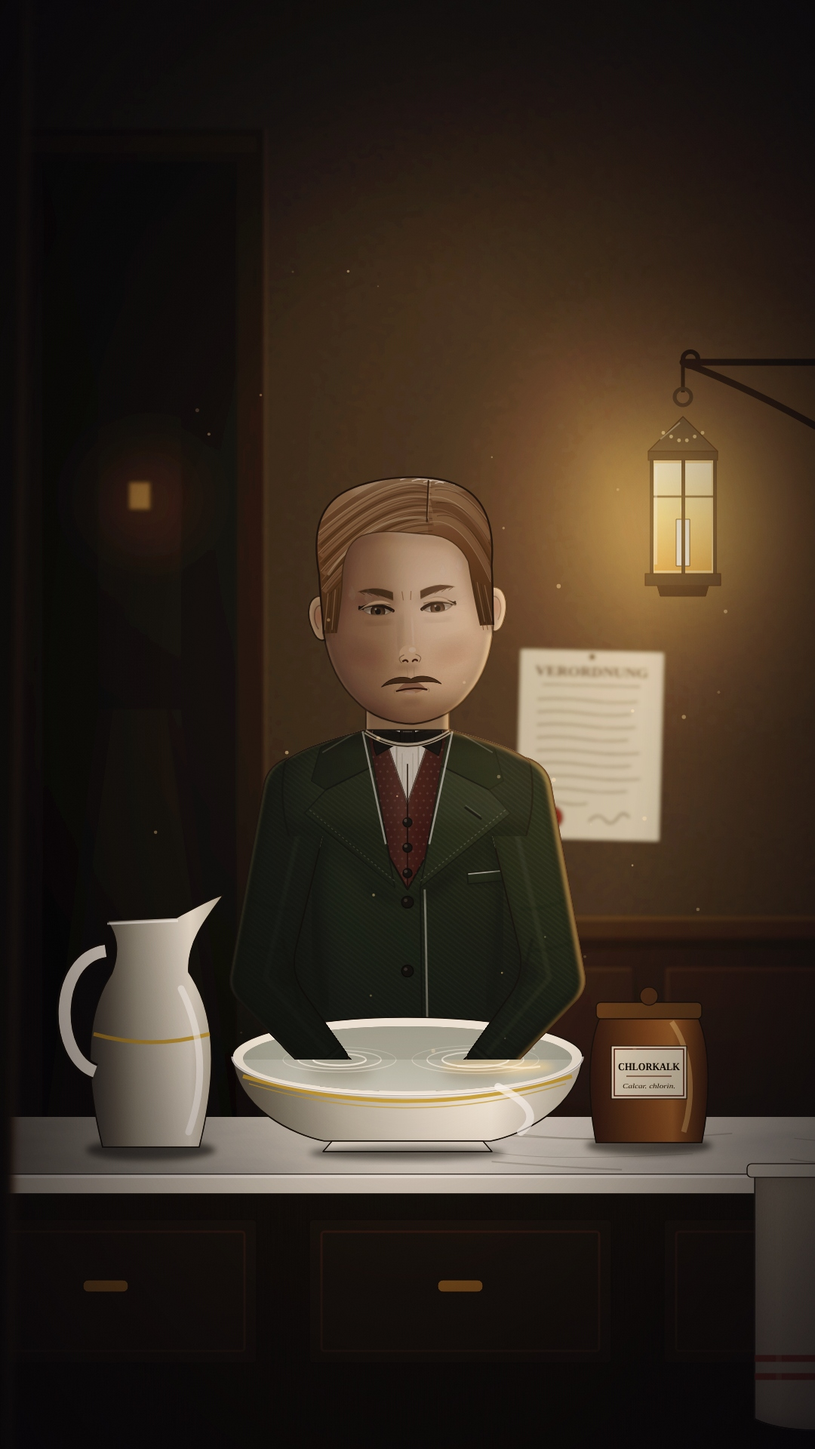
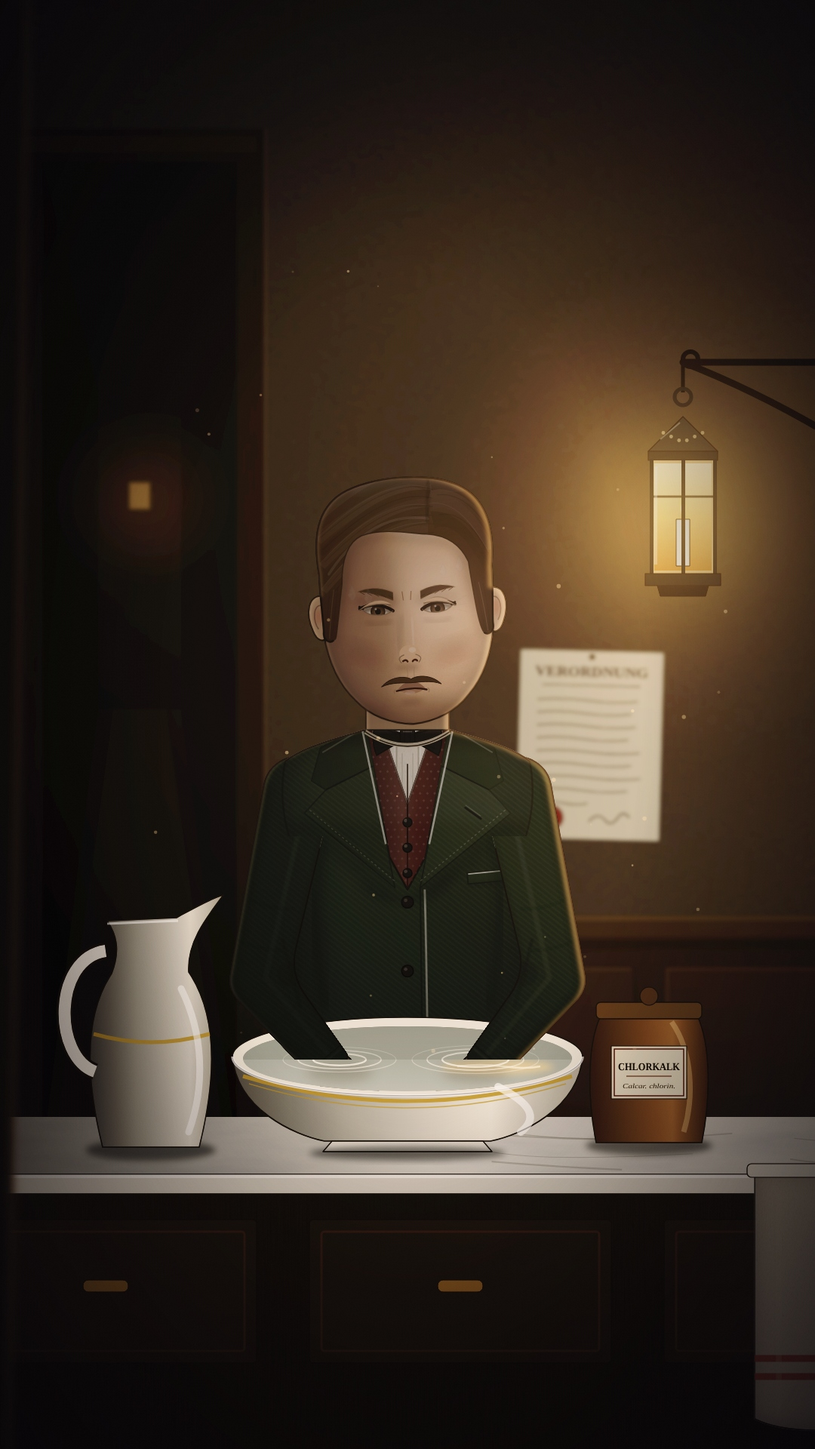
Hair: lit with the head, no cut ends, one tone per head
The user: the hair "still look very off and cutted at some points ... not matching".
- castT1.js Q.litHair: back hair + body + front hair (+ a held prop and fist) through ONE light pass, so the hair takes
  the same key, rim and face light as the face (drawn outside the pass it read as a cut-out laid on top).
- hairkit.js: one gradient per head shared by every piece; fewer, wider locks with faint lines; the parting a soft
  groove; the woman's hair covers the ears whole and rounds back behind them; sideburns taper to a rounded end; the
  bald fringe thins out at both ends and also lies over the side of the head above the ear.
- test_frames: the stills, the cast sheet and a 2.5x hair before/after.

Claude-Session: https://claude.ai/code/session_017ekfBmByRicNC7Kuj1gPSk

Changed region(s): [[0.3667, 0.3125, 0.6111, 0.4375]]

diff --git a/dark-history/_render/lib/hairkit.js b/dark-history/_render/lib/hairkit.js
@@ -1,22 +1,20 @@
 // Hair kit for rig3 heads (the detailing pass of 2026-11-08: "their clothes and hairs look uneven ... not detailed and
-// clean"). Hair is built the way painted hair is, in layers - never one flat blob with a few scratched lines:
-//   - the mass, shaded top to bottom (lighter on the crown, darker at the roots and underneath), inked on its outer
-//     edge only;
-//   - locks: tapered filled ribbons that follow the flow from the parting, evenly spaced, in alternating tones, each
-//     with a fine dark parting line and a lit edge;
-//   - a sheen band across the crown, stronger on the key-light side, with a few crisp highlights in it;
-//   - a soft hairline: a thin line a shade darker than the hair where it meets the skin (no heavy ink), short strands
-//     breaking it, a faint shadow on the brow under it;
-//   - a few fly-away hairs past the silhouette.
+// clean", then "hairs still look very off and cutted at some points ... not matching"). Hair is built the way painted
+// hair is, in layers - never one flat blob with a few scratched lines:
+//   - the mass, shaded by ONE gradient per head (lighter on the crown, darker toward the nape) shared by every piece -
+//     front, back and plait - so their tones meet without a seam;
+//   - wide tapered locks that follow the flow from the parting, in alternating tones, with only faint lines between;
+//   - a sheen band across the crown, stronger on the key-light side;
+//   - a soft hairline: a thin line a shade darker than the hair where it meets the skin, no ink, a faint brow shadow.
+// No hair ends in a straight cut: a woman's hair rounds over the ear and goes back behind it, sideburns taper to a
+// rounded end, a bald man's fringe thins out at both ends, a parting is a soft groove.
 // Drawn on the base head (rig3 FACE[kind]) and carried onto the character's morphed head with the rig's own face map
-// (faceP), like its beards. Use with the rig's hairStyle 'bald'. Each style returns { back, front } for the cast's
-// headArt / withArt (back: behind the body and head; front: over the face).
-//   HK.centrePart({ kind: 'woman', fx, col, id, light: 1, braid: 1 | -1 | 0, ribbon })  (1840s women: sleek, the
-//     ears covered, the hair gathered behind into a night plait over one shoulder)
-//   HK.sidePart({ kind: 'man', fx, col, id, light: 1, part: 28 })                       (1840s men: a side parting,
-//     the hair swept across the crown in a wave, trimmed sideburns)
-//   HK.baldFringe({ kind: 'man', fx, col, id, light: 1 })                               (an old man: a bald crown,
-//     soft white hair round the sides and back, wisps over the temples, short side-whiskers)
+// (faceP), like its beards. Use with the rig's hairStyle 'bald'. Each style returns { back, front }: draw them INSIDE
+// the figure's light pass (back + P.svg + front through one C.lit, e.g. the cast's litHair), so the hair takes the same
+// key, rim and face light as the head (drawn outside it, it reads as a cut-out laid on top).
+//   HK.centrePart({ kind: 'woman', fx, col, id, light: 1, braid: 1 | -1 | 0, ribbon })
+//   HK.sidePart({ kind: 'man', fx, col, id, light: 1, part: 28 })
+//   HK.baldFringe({ kind: 'man', fx, col, id, light: 1 })
 (function (G) {
   const { shade, faceP } = G.RIG;
   const HK = {};
@@ -35,129 +33,128 @@
     return path(m, [['M', off(p0, n0, w0)], ['Q', off(c, nc, wc), off(p1, n1, w1)], ['L', off(p1, n1, -w1)], ['Q', off(c, nc, -wc), off(p0, n0, -w0)]]) + 'Z';
   };
   const curve = (m, p0, c, p1, dn = 0) => { const n = nr(p0, p1); return path(m, [['M', off(p0, n, dn)], ['Q', off(c, n, dn), off(p1, n, dn)]]); };
-  const grad = (id, col, y0, y1) => `<linearGradient id="${id}" gradientUnits="userSpaceOnUse" x1="0" y1="${f(y0)}" x2="0" y2="${f(y1)}"><stop offset="0" stop-color="${shade(col, 0.22)}"/><stop offset="0.5" stop-color="${col}"/><stop offset="1" stop-color="${shade(col, -0.32)}"/></linearGradient>`;
-  // locks over a mass: fills in alternating tones, then the fine dark line between locks and a lit edge on each
-  const lockSet = (m, col, L, op = 0.5) => {
+  // one gradient per head, top of the crown to the nape (userSpaceOnUse, head-local after mapping)
+  const grad = (id, col, y0, y1) => `<linearGradient id="${id}" gradientUnits="userSpaceOnUse" x1="0" y1="${f(y0)}" x2="0" y2="${f(y1)}"><stop offset="0" stop-color="${shade(col, 0.2)}"/><stop offset="0.38" stop-color="${col}"/><stop offset="1" stop-color="${shade(col, -0.3)}"/></linearGradient>`;
+  // locks over a mass: wide fills in alternating tones; only faint lines between them
+  const lockSet = (m, col, L, op = 0.42) => {
     let g = '';
-    L.forEach(([p0, c, p1, w0, w1], i) => { g += `<path d="${lock(m, p0, c, p1, w0, w1)}" fill="${shade(col, i % 2 ? 0.16 : -0.2)}" opacity="${op}"/>`; });
-    L.forEach(([p0, c, p1, w0], i) => { g += `<path d="${curve(m, p0, c, p1, -w0 * 0.9)}" stroke="${shade(col, -0.5)}" stroke-width="1.1" fill="none" opacity="0.38" stroke-linecap="round"/><path d="${curve(m, p0, c, p1, w0 * 0.5)}" stroke="${shade(col, 0.45)}" stroke-width="1" fill="none" opacity="${i % 2 ? 0.4 : 0.22}" stroke-linecap="round"/>`; });
+    L.forEach(([p0, c, p1, w0, w1], i) => { g += `<path d="${lock(m, p0, c, p1, w0, w1)}" fill="${shade(col, i % 2 ? 0.14 : -0.16)}" opacity="${op}"/>`; });
+    L.forEach(([p0, c, p1, w0], i) => { g += `<path d="${curve(m, p0, c, p1, -w0 * 0.9)}" stroke="${shade(col, -0.45)}" stroke-width="1" fill="none" opacity="0.22" stroke-linecap="round"/>`; if (i % 2) g += `<path d="${curve(m, p0, c, p1, w0 * 0.4)}" stroke="${shade(col, 0.45)}" stroke-width="1" fill="none" opacity="0.2" stroke-linecap="round"/>`; });
     return g;
   };
-  // short strands across a hairline (pts: base points on it; d: the way the hair runs there)
-  const hairlineStrands = (m, col, pts) => pts.map(([p, d]) => `<path d="${path(m, [['M', [p[0] - d[0] * 4, p[1] - d[1] * 4]], ['L', [p[0] + d[0] * 6, p[1] + d[1] * 6]]])}" stroke="${shade(col, -0.05)}" stroke-width="1" opacity="0.6" stroke-linecap="round"/>`).join('');
 
-  // ======================================================= women: a centre parting, smooth over the ears, a night plait
+  // ======================================================= women: a centre parting, over the ears and back, a night plait
   HK.centrePart = (o = {}) => {
     const m = mapper(o.kind || 'woman', o.fx), col = o.col || '#4a2814', id = o.id || 'hkc', lt = o.light || 1, fx = o.fx || {};
-    const outer = [['M', [-80, 14]], ['C', [-94, -36], [-96, -108], [-62, -132]], ['C', [-34, -152], [34, -152], [62, -132]], ['C', [96, -108], [94, -36], [80, 14]]];
-    const inner = [['L', [70, 12]], ['C', [68, -26], [62, -56], [50, -74]], ['C', [34, -94], [12, -100], [0, -96]], ['C', [-12, -100], [-34, -94], [-50, -74]], ['C', [-62, -56], [-68, -26], [-70, 12]]];
-    const cap = path(m, outer) + ' ' + path(m, inner) + 'Z';
-    const hl = path(m, [['M', [70, 12]], ['C', [68, -26], [62, -56], [50, -74]], ['C', [34, -94], [12, -100], [0, -96]], ['C', [-12, -100], [-34, -94], [-50, -74]], ['C', [-62, -56], [-68, -26], [-70, 12]]]);
-    const y0 = m([0, -152])[1], y1 = m([0, 14])[1];
-    let front = `<defs>${grad(id + 'g', col, y0, y1)}<clipPath id="${id}c"><path d="${cap}"/></clipPath></defs>`;
-    // a faint shadow on the brow under the hairline
-    front += `<path d="${hl}" stroke="#3a1c0c" stroke-width="10" fill="none" opacity="0.14" filter="url(#b4)" transform="translate(0,5)"/>`;
+    const G0 = m([0, -152])[1], G1 = m([0, 150])[1];
+    // the cap: smooth over the crown, down over each ear (covered whole, as the 1840s wore it: a lobe peeping out under
+    // the hair read as a stray sliver), where it rounds under and turns back behind it
+    const side = s => [['C', [s * 98, -108], [s * 97, -40], [s * 87, 14]], ['C', [s * 85, 30], [s * 79, 39], [s * 70, 37]]];
+    const outerD = [['M', [-70, 37]], ['C', [-79, 39], [-85, 30], [-87, 14]], ['C', [-97, -40], [-98, -108], [-62, -132]], ['C', [-34, -152], [34, -152], [62, -132]], ...side(1)];
+    const hlD = [['M', [70, 37]], ['C', [70, 14], [69, -14], [67, -28]], ['C', [64, -52], [58, -64], [50, -74]], ['C', [34, -94], [12, -100], [0, -96]], ['C', [-12, -100], [-34, -94], [-50, -74]], ['C', [-58, -64], [-64, -52], [-67, -28]], ['C', [-69, -14], [-70, 14], [-70, 37]]];
+    const cap = path(m, outerD) + ' L' + path(m, hlD).slice(1) + 'Z';
+    let front = `<defs>${grad(id + 'g', col, G0, G1)}<clipPath id="${id}c"><path d="${cap}"/></clipPath></defs>`;
+    front += `<path d="${path(m, hlD)}" stroke="#3a1c0c" stroke-width="10" fill="none" opacity="0.14" filter="url(#b4)" transform="translate(0,5)"/>`;
     front += `<path d="${cap}" fill="url(#${id}g)"/>`;
-    // the locks: from the parting outward and down - the upper ones over the crown to the back, the lower ones along
-    // the hairline down over the tops of the ears
+    // five wide locks a side from the parting: the upper over the crown to the back, the lower along the hairline and
+    // round over the ear
     let lk = '';
     for (const s of [-1, 1]) {
       const L = [];
-      for (let i = 0; i < 7; i++) { const t = i / 6; L.push([[s * 2, -148 + 50 * t], [s * (46 + 16 * t), -158 + 80 * t], [s * (92 - 14 * t), -108 + 116 * t], 17, 5]); }
+      for (let i = 0; i < 5; i++) { const t = i / 4; L.push([[s * 2, -146 + 48 * t], [s * (48 + 14 * t), -156 + 80 * t], [s * (94 - 16 * t), -104 + 124 * t], 24, 8]); }
       lk += lockSet(m, col, L);
     }
-    // the sheen across the crown either side of the parting, stronger toward the light
-    for (const s of [-1, 1]) lk += `<path d="${path(m, [['M', [s * 8, -140]], ['Q', [s * 40, -144], [s * 72, -112]]])}" stroke="${shade(col, 0.55)}" stroke-width="13" fill="none" opacity="${s === lt ? 0.3 : 0.16}" filter="url(#b4)" stroke-linecap="round"/>`;
-    for (let i = 0; i < 4; i++) { const t = i / 3; lk += `<path d="${path(m, [['M', [lt * (16 + 14 * t), -142 + 4 * t]], ['Q', [lt * (30 + 16 * t), -140 + 6 * t], [lt * (44 + 18 * t), -132 + 10 * t]]])}" stroke="${shade(col, 0.75)}" stroke-width="1.4" fill="none" opacity="0.55" stroke-linecap="round"/>`; }
+    for (const s of [-1, 1]) lk += `<path d="${path(m, [['M', [s * 8, -140]], ['Q', [s * 40, -144], [s * 72, -112]]])}" stroke="${shade(col, 0.55)}" stroke-width="13" fill="none" opacity="${s === lt ? 0.28 : 0.14}" filter="url(#b4)" stroke-linecap="round"/>`;
+    for (let i = 0; i < 3; i++) lk += `<path d="${path(m, [['M', [lt * (18 + 14 * i), -141 + 4 * i]], ['Q', [lt * (32 + 15 * i), -139 + 6 * i], [lt * (46 + 16 * i), -131 + 10 * i]]])}" stroke="${shade(col, 0.7)}" stroke-width="1.3" fill="none" opacity="0.45" stroke-linecap="round"/>`;
+    // the parting: a soft groove where the locks divide (shading, not a drawn line)
+    lk += `<path d="${path(m, [['M', [0, -98]], ['L', [0, -148]]])}" stroke="${shade(col, -0.45)}" stroke-width="4" opacity="0.35" filter="url(#b1)"/>`;
     front += `<g clip-path="url(#${id}c)">${lk}</g>`;
-    // the parting: a fine dark line with the scalp just showing in it
-    front += `<path d="${path(m, [['M', [0, -97]], ['L', [0, -150]]])}" stroke="${shade(col, -0.55)}" stroke-width="2" opacity="0.8"/><path d="${path(m, [['M', [0, -100]], ['L', [0, -146]]])}" stroke="#d8b49a" stroke-width="0.9" opacity="0.4"/>`;
-    // ink on the outer edge only; where the hair meets the skin a thin line a shade darker than the hair, no ink (stray
-    // strands and fly-aways read as scratches at this scale, so there are none)
-    front += `<path d="${path(m, outer)}" fill="none" ${OUTL}/><path d="${hl}" stroke="${shade(col, -0.35)}" stroke-width="1.3" fill="none" opacity="0.8"/>`;
-    // behind the head: the hair taken back behind the ears; on the plait's side it runs down behind the jaw to where
-    // the plait comes round the neck
-    let back = `<defs>${grad(id + 'b', col, m([0, -40])[1], m([0, 120])[1])}</defs>`;
+    front += `<path d="${path(m, outerD)}" fill="none" ${OUTL}/><path d="${path(m, hlD)}" stroke="${shade(col, -0.35)}" stroke-width="1.3" fill="none" opacity="0.8"/>`;
+    // behind the head, in the same gradient: the hair taken back from behind each ear toward the nape; on the plait's
+    // side it runs down behind the jaw to where the plait comes round the neck
+    let back = '';
     for (const s of [-1, 1]) {
       const big = s === (o.braid || 0);
-      const d = big ? [['M', [s * 62, -20]], ['C', [s * 96, -6], [s * 106, 40], [s * 96, 96]], ['C', [s * 90, 116], [s * 76, 126], [s * 58, 124]], ['L', [s * 50, 104]], ['C', [s * 70, 88], [s * 74, 40], [s * 56, -2]]]
-        : [['M', [s * 64, -14]], ['C', [s * 88, -6], [s * 94, 18], [s * 88, 40]], ['L', [s * 72, 40]], ['C', [s * 74, 22], [s * 70, 6], [s * 58, 0]]];
-      back += `<path d="${path(m, d)}Z" fill="url(#${id}b)" ${OUTL}/><path d="${path(m, [['M', [s * 70, -8]], ['C', [s * 90, 6], [s * 96, 40], [s * 88, big ? 90 : 34]]])}" stroke="${shade(col, 0.35)}" stroke-width="1.2" fill="none" opacity="0.4"/>`;
+      const d = big ? [['M', [s * 66, -24]], ['C', [s * 98, -10], [s * 106, 40], [s * 96, 96]], ['C', [s * 90, 116], [s * 76, 126], [s * 58, 124]], ['L', [s * 50, 104]], ['C', [s * 70, 88], [s * 74, 40], [s * 58, -6]]]
+        : [['M', [s * 66, -20]], ['C', [s * 94, -8], [s * 98, 24], [s * 88, 56]], ['C', [s * 84, 66], [s * 78, 70], [s * 72, 68]], ['C', [s * 76, 40], [s * 72, 12], [s * 58, -4]]];
+      back += `<path d="${path(m, d)}Z" fill="url(#${id}g)" ${OUTL}/><path d="${path(m, [['M', [s * 72, -6]], ['C', [s * 90, 8], [s * 96, 40], [s * 88, big ? 90 : 52]]])}" stroke="${shade(col, 0.35)}" stroke-width="1.2" fill="none" opacity="0.3"/>`;
     }
-    // the plait: it comes round the side of the neck, over the shoulder and down the front, thick at the top and
-    // tapering. A solid core, then three-strand lobes - pointed lenses leaning left and right in turn, overlapping
-    // closely - each lit on the light side; tied with a ribbon, a little tuft below. (Head-local, scaled with the head's
-    // width only: it lies on the body.)
+    // the plait: round the side of the neck, over the shoulder, down the front; thick at the top, tapering. A solid
+    // core, then pointed three-strand lenses leaning in turn, overlapping closely; tied with a ribbon over a little tuft.
+    // (Head-local, scaled with the head's width only - it lies on the body.) Its tones come from the same gradient
+    // (the core) plus light and dark lenses, so it matches the hair it grows from.
     if (o.braid) {
       const s = o.braid, W0 = fx.w ?? 1, B = p => [p[0] * W0, p[1]];
       const pts = [[s * 50, 112], [s * 72, 150], [s * 92, 206], [s * 102, 270], [s * 104, 330]];
       const seg = [0]; for (let i = 1; i < pts.length; i++) seg.push(seg[i - 1] + Math.hypot(pts[i][0] - pts[i - 1][0], pts[i][1] - pts[i - 1][1]));
       const at = t => { const d = t * seg[seg.length - 1]; let k = 0; while (k < seg.length - 2 && seg[k + 1] < d) k++; const u = (d - seg[k]) / (seg[k + 1] - seg[k]); return [pts[k][0] + (pts[k + 1][0] - pts[k][0]) * u, pts[k][1] + (pts[k + 1][1] - pts[k][1]) * u]; };
       const wid = t => 30 - 13 * t;
-      // the core: a tapered band along the plait in the hair's darkest tone, so no gap ever shows between lobes
       let core = '', coreB = '';
       for (let i = 0; i <= 16; i++) { const t = i / 16, p = B(at(t)), q = B(at(Math.min(1, t + 0.01))), a = Math.atan2(q[1] - p[1], q[0] - p[0]), n = [-Math.sin(a), Math.cos(a)], w = wid(t) * 0.42; core += (i ? ' L' : 'M') + Q([p[0] + n[0] * w, p[1] + n[1] * w]); coreB = ' L' + Q([p[0] - n[0] * w, p[1] - n[1] * w]) + coreB; }
-      let br = `<path d="${core}${coreB}Z" fill="${shade(col, -0.35)}" ${OUTL}/>`;
+      let br = `<path d="${core}${coreB}Z" fill="${shade(col, -0.3)}" ${OUTL}/>`;
       const N = 22;
       for (let i = 0; i < N; i++) {
         const t = i / (N - 1), p = B(at(t)), q = B(at(Math.min(1, t + 0.01))), a = Math.atan2(q[1] - p[1], q[0] - p[0]) * 180 / Math.PI, w = wid(t), hl = w * 0.5, hw = w * 0.27, lean = (i % 2 ? 1 : -1) * 38;
         const lens = `M0,${f(-hl)} Q${f(hw * 1.9)},0 0,${f(hl)} Q${f(-hw * 1.9)},0 0,${f(-hl)}Z`;
-        br += `<g transform="translate(${f(p[0])},${f(p[1])}) rotate(${f(a - 90 + lean)})"><path d="${lens}" fill="${shade(col, i % 2 ? 0.1 : -0.06)}" stroke="${shade(col, -0.55)}" stroke-width="1.1"/><path d="M${f(hw * 0.5)},${f(-hl * 0.6)} Q${f(hw * 0.95)},0 ${f(hw * 0.5)},${f(hl * 0.6)}" stroke="${shade(col, 0.55)}" stroke-width="1.3" fill="none" opacity="${(i % 2 ? 1 : -1) * lt > 0 ? 0.55 : 0.3}"/></g>`;
+        br += `<g transform="translate(${f(p[0])},${f(p[1])}) rotate(${f(a - 90 + lean)})"><path d="${lens}" fill="${shade(col, (i % 2 ? 0.06 : -0.1) - 0.12 * t)}" stroke="${shade(col, -0.55)}" stroke-width="1.1"/><path d="M${f(hw * 0.5)},${f(-hl * 0.6)} Q${f(hw * 0.95)},0 ${f(hw * 0.5)},${f(hl * 0.6)}" stroke="${shade(col, 0.5)}" stroke-width="1.2" fill="none" opacity="${(i % 2 ? 1 : -1) * lt > 0 ? 0.45 : 0.22}"/></g>`;
       }
       const e = B(at(1)), rb = o.ribbon || '#b88a7e';
-      br += [-8, -4, 0, 4, 8].map((dx, k) => `<path d="M${Q([e[0] + dx * 0.4, e[1] - 2])} q${f(dx * 0.5)},${12 + k % 2 * 4} ${f(dx * 0.9)},${24 + (k % 3) * 4}" stroke="${shade(col, k % 2 ? 0.15 : -0.2)}" stroke-width="${3 - Math.abs(dx) * 0.14}" fill="none" stroke-linecap="round"/>`).join('');
+      br += [-8, -4, 0, 4, 8].map((dx, k) => `<path d="M${Q([e[0] + dx * 0.4, e[1] - 2])} q${f(dx * 0.5)},${12 + k % 2 * 4} ${f(dx * 0.9)},${24 + (k % 3) * 4}" stroke="${shade(col, k % 2 ? 0 : -0.3)}" stroke-width="${3 - Math.abs(dx) * 0.14}" fill="none" stroke-linecap="round"/>`).join('');
       br += [-1, 1].map(k => `<path d="M${Q(e)} q${f(k * 14)},-9 ${f(k * 16)},4 q${f(-k * 4)},9 ${f(-k * 16)},-4Z" fill="${rb}" stroke="${shade(rb, -0.5)}" stroke-width="1.1"/><path d="M${Q([e[0] + k * 4, e[1] - 2])} q${f(k * 6)},-4 ${f(k * 10)},-3" stroke="${shade(rb, 0.5)}" stroke-width="1.1" fill="none" opacity="0.7"/>`).join('') + `<circle cx="${f(e[0])}" cy="${f(e[1])}" r="4" fill="${shade(rb, -0.15)}" stroke="${shade(rb, -0.5)}" stroke-width="1"/>`;
       front += br;
     }
-    return { back, front };
+    return { back: `<defs>${grad(id + 'g', col, G0, G1)}</defs>` + back, front };
   };
 
   // ======================================================= men: a side parting, swept across the crown, sideburns
   HK.sidePart = (o = {}) => {
     const m = mapper(o.kind || 'man', o.fx), col = o.col || '#5e4026', id = o.id || 'hks', lt = o.light || 1, pt = o.part ?? 28;
-    const outer = [['M', [-80, 22]], ['C', [-84, -6], [-88, -24], [-90, -46]], ['C', [-95, -90], [-88, -122], [-62, -138]], ['C', [-32, -156], [30, -158], [60, -140]], ['C', [84, -126], [96, -96], [90, -46]], ['C', [88, -24], [84, -6], [80, 22]]];
-    const hlD = [['M', [68, 22]], ['C', [67, -4], [67, -30], [66, -52]], ['C', [58, -74], [42, -84], [24, -86]], ['C', [6, -88], [-20, -96], [-44, -88]], ['C', [-58, -82], [-66, -62], [-66, -34]], ['C', [-66, -12], [-67, 6], [-68, 22]]];
-    const cap = path(m, outer) + ' L' + path(m, hlD).slice(1) + 'Z';
-    const y0 = m([0, -158])[1], y1 = m([0, 22])[1];
-    let front = `<defs>${grad(id + 'g', col, y0, y1)}<clipPath id="${id}c"><path d="${cap}"/></clipPath></defs>`;
+    // the cap, its sideburns ending in a rounded taper (never a straight cut)
+    const outerD = [['M', [-70, 30]], ['C', [-74, 34], [-80, 30], [-80, 20]], ['C', [-84, -6], [-88, -24], [-90, -46]], ['C', [-95, -90], [-88, -122], [-62, -138]], ['C', [-32, -156], [30, -158], [60, -140]], ['C', [84, -126], [96, -96], [90, -46]], ['C', [88, -24], [84, -6], [80, 20]], ['C', [80, 30], [74, 34], [70, 30]]];
+    const hlD = [['M', [70, 30]], ['C', [68, 26], [67, 10], [67, -4]], ['C', [67, -30], [67, -40], [66, -52]], ['C', [58, -74], [42, -84], [24, -86]], ['C', [6, -88], [-20, -96], [-44, -88]], ['C', [-58, -82], [-66, -62], [-66, -34]], ['C', [-67, -12], [-67, 10], [-68, 26]], ['C', [-68, 28], [-69, 30], [-70, 30]]];
+    const cap = path(m, outerD) + ' L' + path(m, hlD).slice(1) + 'Z';
+    const G0 = m([0, -158])[1], G1 = m([0, 34])[1];
+    let front = `<defs>${grad(id + 'g', col, G0, G1)}<clipPath id="${id}c"><path d="${cap}"/></clipPath></defs>`;
     front += `<path d="${path(m, hlD)}" stroke="#3a1c0c" stroke-width="10" fill="none" opacity="0.14" filter="url(#b4)" transform="translate(0,5)"/>`;
     front += `<path d="${cap}" fill="url(#${id}g)"/>`;
     // the long side: from the parting over the crown and across the forehead in a wave, down to the far temple
-    const L1 = []; for (let i = 0; i < 8; i++) { const t = i / 7; L1.push([[pt + 1 - 3 * t, -146 + 50 * t], [-12 - 18 * t, -166 + 68 * t], [-90 + 6 * t, -98 + 72 * t], 17, 5]); }
+    const L1 = []; for (let i = 0; i < 6; i++) { const t = i / 5; L1.push([[pt + 1 - 3 * t, -146 + 50 * t], [-12 - 18 * t, -166 + 68 * t], [-90 + 6 * t, -98 + 72 * t], 22, 7]); }
     // the short side: from the parting down to the near temple
-    const L2 = []; for (let i = 0; i < 4; i++) { const t = i / 3; L2.push([[pt + 3, -146 + 44 * t], [pt + 36, -148 + 40 * t], [91 - 2 * t, -100 + 70 * t], 15, 5]); }
+    const L2 = []; for (let i = 0; i < 3; i++) { const t = i / 2; L2.push([[pt + 3, -146 + 44 * t], [pt + 36, -148 + 40 * t], [91 - 2 * t, -100 + 70 * t], 20, 7]); }
     let lk = lockSet(m, col, L1) + lockSet(m, col, L2);
     // the wave's rolled front edge catches the light; the sheen across the crown
-    lk += `<path d="${path(m, [['M', [pt - 2, -104]], ['C', [0, -110], [-40, -106], [-80, -46]]])}" stroke="${shade(col, 0.5)}" stroke-width="3" fill="none" opacity="0.35" stroke-linecap="round"/>`;
-    lk += `<path d="${path(m, [['M', [-46, -142]], ['Q', [8, -166], [64, -138]]])}" stroke="${shade(col, 0.55)}" stroke-width="13" fill="none" opacity="0.26" filter="url(#b4)" stroke-linecap="round"/>`;
-    for (let i = 0; i < 4; i++) lk += `<path d="${path(m, [['M', [lt * (10 + 12 * i) - 10, -150 + i * 2]], ['Q', [lt * (20 + 12 * i) - 10, -154 + i * 2], [lt * (30 + 12 * i) - 10, -150 + i * 3]]])}" stroke="${shade(col, 0.75)}" stroke-width="1.4" fill="none" opacity="0.5" stroke-linecap="round"/>`;
-    // the sideburns: fine vertical strands, a darker root line along the face
-    for (const s of [-1, 1]) for (let i = 0; i < 4; i++) lk += `<path d="${path(m, [['M', [s * (69 + i * 3.5), -30 + i * 2]], ['L', [s * (69 + i * 3.5), 18]]])}" stroke="${shade(col, i % 2 ? 0.3 : -0.4)}" stroke-width="1.1" opacity="0.5"/>`;
+    lk += `<path d="${path(m, [['M', [pt - 2, -104]], ['C', [0, -110], [-40, -106], [-80, -46]]])}" stroke="${shade(col, 0.5)}" stroke-width="3" fill="none" opacity="0.3" stroke-linecap="round"/>`;
+    lk += `<path d="${path(m, [['M', [-46, -142]], ['Q', [8, -166], [64, -138]]])}" stroke="${shade(col, 0.55)}" stroke-width="13" fill="none" opacity="0.24" filter="url(#b4)" stroke-linecap="round"/>`;
+    // the parting: a soft groove (shading, not a drawn line)
+    lk += `<path d="${path(m, [['M', [pt + 1, -148]], ['Q', [pt - 1, -124], [pt - 3, -100]]])}" stroke="${shade(col, -0.45)}" stroke-width="4" fill="none" opacity="0.32" filter="url(#b1)"/>`;
+    // the sideburns: fine strands down to the rounded end
+    for (const s of [-1, 1]) for (let i = 0; i < 3; i++) lk += `<path d="${path(m, [['M', [s * (70 + i * 4), -30 + i * 2]], ['Q', [s * (71 + i * 4), 6], [s * (72 + i * 2), 28]]])}" stroke="${shade(col, i % 2 ? 0.3 : -0.35)}" stroke-width="1" fill="none" opacity="0.4"/>`;
     front += `<g clip-path="url(#${id}c)">${lk}</g>`;
-    front += `<path d="${path(m, [['M', [pt + 1, -148]], ['Q', [pt - 1, -124], [pt - 3, -100]]])}" stroke="${shade(col, -0.55)}" stroke-width="2" fill="none" opacity="0.8"/><path d="${path(m, [['M', [pt + 2, -144]], ['Q', [pt, -124], [pt - 2, -104]]])}" stroke="#d8b49a" stroke-width="0.9" fill="none" opacity="0.4"/>`;
-    front += `<path d="${path(m, outer)}" fill="none" ${OUTL}/><path d="${path(m, hlD)}" stroke="${shade(col, -0.35)}" stroke-width="1.3" fill="none" opacity="0.8"/>`;
-    // short strands soften the bottom of each sideburn (no stray hairs elsewhere: they read as scratches)
-    const hp = []; for (const s of [-1, 1]) for (let i = 0; i < 3; i++) hp.push([[s * (70 + i * 4), 21], [0, 1]]);
-    front += hairlineStrands(m, col, hp);
+    front += `<path d="${path(m, outerD)}" fill="none" ${OUTL}/><path d="${path(m, hlD)}" stroke="${shade(col, -0.35)}" stroke-width="1.3" fill="none" opacity="0.8"/>`;
     return { back: '', front };
   };
 
-  // ======================================================= an old man: bald crown, soft white fringe, side-whiskers
+  // ======================================================= an old man: bald crown, soft fringe over the sides and back
   HK.baldFringe = (o = {}) => {
-    const m = mapper(o.kind || 'man', o.fx), col = o.col || '#d0cac0', id = o.id || 'hkb', lt = o.light || 1;
-    let back = `<defs>${grad(id + 'g', col, m([0, -110])[1], m([0, 70])[1])}</defs>`;
+    const m = mapper(o.kind || 'man', o.fx), col = o.col || '#b8b2a8', id = o.id || 'hkb', lt = o.light || 1;
+    const G0 = m([0, -110])[1], G1 = m([0, 80])[1];
+    // behind the head: the fringe round the back, from the temple past the ear to the nape, thinning to nothing at
+    // both ends (no hard start or stop)
+    let back = `<defs>${grad(id + 'g', col, G0, G1)}</defs>`;
     for (const s of [-1, 1]) {
-      // the fringe hugs the skull closely from the temple, past the ear, to the nape; combed strands run along it, with
-      // a soft lit edge (no curls: they stuck out like hooks)
-      const d = [['M', [s * 58, -104]], ['C', [s * 76, -104], [s * 88, -84], [s * 90, -52]], ['C', [s * 92, -16], [s * 90, 18], [s * 86, 40]], ['C', [s * 82, 54], [s * 76, 60], [s * 70, 62]], ['L', [s * 62, 50]], ['C', [s * 70, 30], [s * 74, 0], [s * 74, -30]], ['C', [s * 72, -62], [s * 66, -88], [s * 58, -104]]];
+      const d = [['M', [s * 52, -112]], ['C', [s * 74, -110], [s * 89, -88], [s * 91, -54]], ['C', [s * 93, -16], [s * 91, 18], [s * 86, 42]], ['C', [s * 83, 56], [s * 76, 66], [s * 64, 72]], ['C', [s * 70, 50], [s * 74, 20], [s * 74, -10]], ['C', [s * 74, -48], [s * 68, -88], [s * 52, -112]]];
       back += `<path d="${path(m, d)}Z" fill="url(#${id}g)" stroke="${shade(col, -0.55)}" stroke-width="1.3" stroke-linejoin="round"/>`;
-      for (let i = 0; i < 4; i++) back += `<path d="${path(m, [['M', [s * (64 + i * 5), -100 + i * 6]], ['C', [s * (80 + i * 2), -84 + i * 4], [s * (86 + i), -30], [s * (80 + i * 2), 40 - i * 4]]])}" stroke="${shade(col, i % 2 ? 0.3 : -0.3)}" stroke-width="1.2" fill="none" opacity="0.55"/>`;
-      back += `<path d="${path(m, [['M', [s * 70, -96]], ['C', [s * 84, -84], [s * 89, -50], [s * 88, -10]]])}" stroke="${shade(col, 0.5)}" stroke-width="2.4" fill="none" opacity="${s === lt ? 0.5 : 0.2}" stroke-linecap="round"/>`;
+      for (let i = 0; i < 3; i++) back += `<path d="${path(m, [['M', [s * (60 + i * 6), -104 + i * 8]], ['C', [s * (80 + i * 2), -84 + i * 4], [s * (86 + i), -30], [s * (78 + i * 2), 46 - i * 6]]])}" stroke="${shade(col, i % 2 ? 0.3 : -0.3)}" stroke-width="1.1" fill="none" opacity="0.45"/>`;
     }
-    // over the face only two faint wisps from the fringe over each temple (side-whiskers drawn on the cheek read as
-    // striped blocks pasted on, so there are none)
-    let front = '';
-    for (const s of [-1, 1]) for (let i = 0; i < 2; i++) front += `<path d="${path(m, [['M', [s * (80 - i * 2), -66 - i * 8]], ['Q', [s * (75 - i * 3), -86 - i * 8], [s * (64 - i * 4), -96 - i * 6]]])}" stroke="${shade(col, 0.1)}" stroke-width="${1.3 - i * 0.3}" fill="none" opacity="${0.5 - i * 0.15}" stroke-linecap="round"/>`;
+    // over the head: the hair on each side of the head above the ear, overlapping the skull's edge and thinning
+    // upward into the bald crown; ending in a soft rounded tuft just above the ear (it never covers the ear)
+    let front = `<defs>${grad(id + 'f', col, G0, G1)}</defs>`;
+    for (const s of [-1, 1]) {
+      const d = [['M', [s * 60, -96]], ['C', [s * 76, -92], [s * 88, -70], [s * 90, -44]], ['C', [s * 91, -32], [s * 89, -24], [s * 84, -21]], ['C', [s * 79, -20], [s * 76, -26], [s * 75, -34]], ['C', [s * 73, -56], [s * 69, -78], [s * 60, -96]]];
+      front += `<path d="${path(m, d)}Z" fill="url(#${id}f)"/><path d="${path(m, [['M', [s * 90, -44]], ['C', [s * 91, -32], [s * 89, -24], [s * 84, -21]], ['C', [s * 79, -20], [s * 76, -26], [s * 75, -34]]])}" fill="none" stroke="${shade(col, -0.55)}" stroke-width="1.2"/>`;
+      for (let i = 0; i < 3; i++) front += `<path d="${path(m, [['M', [s * (66 + i * 5), -88 + i * 4]], ['Q', [s * (78 + i * 3), -70], [s * (80 + i * 3), -30 + i * 2]]])}" stroke="${shade(col, i % 2 ? 0.35 : -0.25)}" stroke-width="1.1" fill="none" opacity="0.5"/>`;
+      front += `<path d="${path(m, [['M', [s * 70, -86]], ['C', [s * 82, -74], [s * 87, -56], [s * 87, -40]]])}" stroke="${shade(col, 0.5)}" stroke-width="2.2" fill="none" opacity="${s === lt ? 0.45 : 0.18}" stroke-linecap="round"/>`;
+    }
     return { back, front };
   };
 

diff --git a/dark-history/_render/video/shotsT1.js b/dark-history/_render/video/shotsT1.js
@@ -23,7 +23,7 @@
     // the blanket goes over her body but never over her forearms and hands (they stay in the body's one light pass);
     // a soft contact shadow under each hand on the sheet, toward the dark side
     const Lh = Q.HAND.mother * R.HAND_K * o.s, sh = [[hR, dR], [hL, dL]].map(([h, d]) => { const w = R.toWorld(o, h), c = [w[0] + d[0] * Lh * 0.5 - 8, w[1] + d[1] * Lh * 0.5 + 10]; return `<ellipse cx="${f(c[0])}" cy="${f(c[1])}" rx="${f(Lh * 0.36)}" ry="${f(Lh * 0.5)}" fill="#1a0c04" opacity="0.32" filter="url(#b8)"/>`; }).join('');
-    const chars = Q.headArt(P, o, art.back) + lit(P, LW) + behind(P, 't1wq', S.t1Quilt(t) + sh) + Q.headArt(P, o, art.front);
+    const chars = Q.litHair(P, o, art, LW) + behind(P, 't1wq', S.t1Quilt(t) + sh);
     const layers = S.t1Ward(t);
     layers.push({ p: 1, svg: S.t1WardBed(t) + chars }, { p: 1.02, svg: S.t1WardLight(t) }, { p: 1.25, svg: S.t1WardFg(t) });
     return X.compose(layers, cam) + C.vignette(0.55, '#060302', 0.4);
@@ -42,7 +42,7 @@
     const P = up(Q.semm(Object.assign(o, { noLegs: true, face: { expr: 'grim', look: [0.05, 0.5], lid: 0.22, brows: [7, -3], mouth: 'tight', sweat: 0.1 },
       armR: { hand: R.toLocal(o, wR), dir: [0.12, 1], pose: 'open', facing: 'back' },
       armL: { hand: R.toLocal(o, wL), dir: [-0.12, 1], pose: 'open', facing: 'back' } })), o);
-    const body = clipTop('t1bTop' + (opts.id || ''), S.T1B.TOP, Q.withArt(P, o, Q.semmArt(), lit(P, LB)));
+    const body = clipTop('t1bTop' + (opts.id || ''), S.T1B.TOP, Q.litHair(P, o, Q.semmArt(), LB));
     // the bowl's far side and the far half of the water go over the body but never over the forearms (one light pass
     // for the whole figure); the near half of the water and the bowl's front wall then go over the arms
     const wr = [[wR[0] - 2, 0], [wL[0] + 2, 9]];
@@ -82,9 +82,9 @@
     const P = up(Q.klein(Object.assign(o, { noLegs: true, face: { expr: 'stern', mouth: 'closed', cd: -1.4, look: [-0.62, 0.1], lid: 0.42, brows: [10, -4], bags: 0.5 },
       armR: gripAt(o, Q.HAND.klein, gC, [1, 0.04], { facing: 'back', detachHand: true }),
       armL: { hand: [172, -840], dir: [-0.7, 0.7], pose: 'relaxed', facing: 'back', fs: 1, elbow: 'free' } })), o);
-    // body, cane and the fist on it lit in ONE pass (a hand lit on its own gets a rim round its own outline and reads
-    // as pasted on); the light's box widened to take in the crook and the shaft
-    const chars = Q.withArt(P, o, Q.kleinArt(), litWith(P, LK, P.svg + cane(gC[0], gC[1]) + P.handR, [gC[0] - 130, gC[1] - 140, gC[0] + 40, 2100]));
+    // body, hair, cane and the fist on it lit in ONE pass (a hand or hair lit on its own gets a rim round its own
+    // outline and reads as pasted on); the light's box widened to take in the crook and the shaft
+    const chars = Q.litHair(P, o, Q.kleinArt(), LK, cane(gC[0], gC[1]) + P.handR, [gC[0] - 130, gC[1] - 140, gC[0] + 40, 2100]);
     const light = C.radial(1180, 520, 900, '#ffb060', 0.2) + `<rect x="-200" y="-200" width="1480" height="2320" fill="url(#t1kFall)"/>`;
     const fall = S.lg('t1kFall', [[0, '#000', 0.35], [0.4, '#000', 0.12], [1, '#000', 0]], 0, 0, 1, 0);
     return back + X.compose([{ p: 1, svg: fall + chars }, { p: 1.02, svg: light }], cam) + C.vignette(0.55, '#060302', 0.4);

diff --git a/dark-history/_render/video/rigT1.html b/dark-history/_render/video/rigT1.html
@@ -25,15 +25,14 @@
       const P = Q[c.who](Object.assign(o, { face: c.face,
         armR: { hand: R.restHand(c.kind, 'R'), dir: [0.02, 1], pose: 'relaxed', facing: 'back' },
         armL: { hand: R.restHand(c.kind, 'L'), dir: [-0.02, 1], pose: 'relaxed', facing: 'back' } }));
-      const body = X.lit(P, L);
       const art = { mother: Q.motherArt, semm: Q.semmArt, klein: Q.kleinArt }[c.who]();
-      g += Q.withArt(P, o, art, body) + S.TXT(c.x, c.y + 46, 19, '#d8c8a8', c.name, { ls: 3, w: 'bold' });
+      g += Q.litHair(P, o, art, L) + S.TXT(c.x, c.y + 46, 19, '#d8c8a8', c.name, { ls: 3, w: 'bold' });
     }
     // the mother waist-up at full scale (cell 4): the face, the hair, the nightgown's neck
     const o = ST.still(810, 2560, 0.98);
     const P = ST.up(Q.mother(Object.assign(o, { noLegs: true, face: { expr: 'fear', look: [-0.3, 0.05], lid: 0.12, sweat: 0.18, blush: 0.4, bags: 0.4 },
       armR: { hand: [-150, -700], dir: [0.1, 1], pose: 'relaxed', facing: 'back' }, armL: { hand: [150, -700], dir: [-0.1, 1], pose: 'relaxed', facing: 'back' } })), o);
-    g += `<defs><clipPath id="c4"><rect x="545" y="963" width="540" height="960"/></clipPath></defs><g clip-path="url(#c4)">${C.radial(760, 1300, 520, '#ffe0b0', 0.16)}${Q.withArt(P, o, Q.motherArt(), ST.lit(P, L))}</g>`;
+    g += `<defs><clipPath id="c4"><rect x="545" y="963" width="540" height="960"/></clipPath></defs><g clip-path="url(#c4)">${C.radial(760, 1300, 520, '#ffe0b0', 0.16)}${Q.litHair(P, o, Q.motherArt(), L)}</g>`;
     return X.compose([{ p: 1, svg: g }], cam) + C.vignette(0.35, '#060302', 0.5);
   }, { grade: 'gHall' });
 })(window);

diff --git a/dark-history/_render/video/castT1.js b/dark-history/_render/video/castT1.js
@@ -16,6 +16,14 @@
     return `<g transform="translate(${o.x || 0},${o.y || 0}) rotate(${o.sway || 0}) scale(${sx},${sy})"><g transform="translate(0,${P.D.headY + (1 - hsc) * 110}) rotate(${o.tilt || 0}) scale(${hsc})">${svg}</g></g>`;
   };
   Q.withArt = (P, o, art, body) => (art && art.back ? Q.headArt(P, o, art.back) : '') + body + (art && art.front ? Q.headArt(P, o, art.front) : '');
+  // the figure lit TOGETHER with its hair (back art + body + front art, then extra - a held prop and its detached fist -
+  // through ONE light pass), so the hair takes the same key, rim and face light as the head; hair drawn outside the
+  // pass read as a cut-out laid on top ("not matching", 2026-11-08). The light's box takes in the hair's volume.
+  Q.litHair = (P, o, art, L, extra = '', ext = null) => {
+    const s = o.s || 1, E = [o.x - 340 * s, o.y - 1520 * s, o.x + 340 * s, o.y + 20 * s];
+    const e2 = ext ? [Math.min(E[0], ext[0]), Math.min(E[1], ext[1]), Math.max(E[2], ext[2]), Math.max(E[3], ext[3])] : E;
+    return G.STAGE.litWith(P, L, (art && art.back ? Q.headArt(P, o, art.back) : '') + P.svg + (art && art.front ? Q.headArt(P, o, art.front) : '') + extra, e2);
+  };
 
   // ======================================================= YOU: Ignaz Semmelweis at twenty-nine. A round open face, full
   // cheeks, a soft square chin, warm brown eyes under straight brows, a straight nose, a full moustache; brown hair
